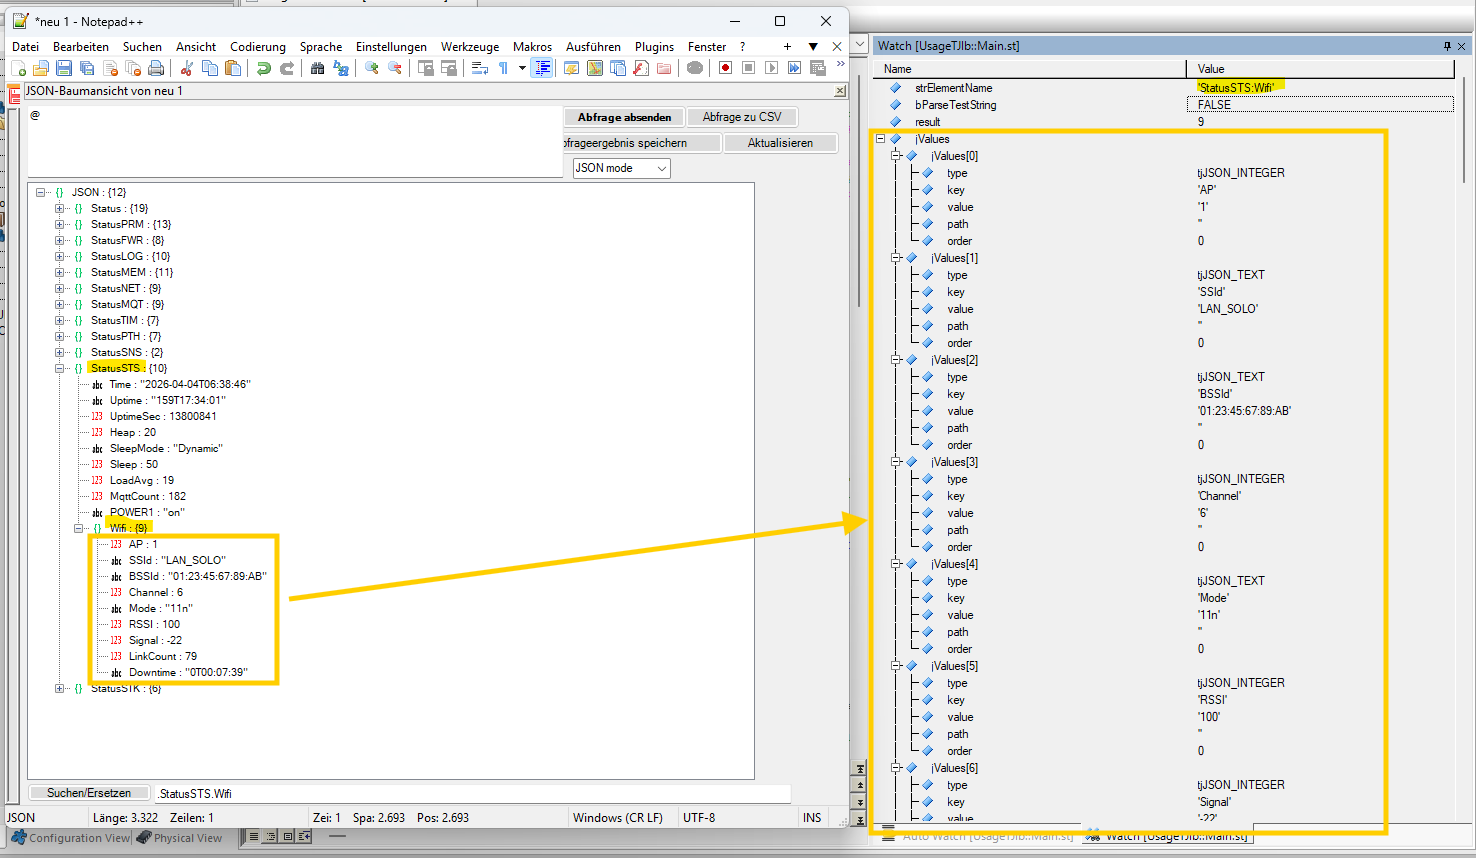
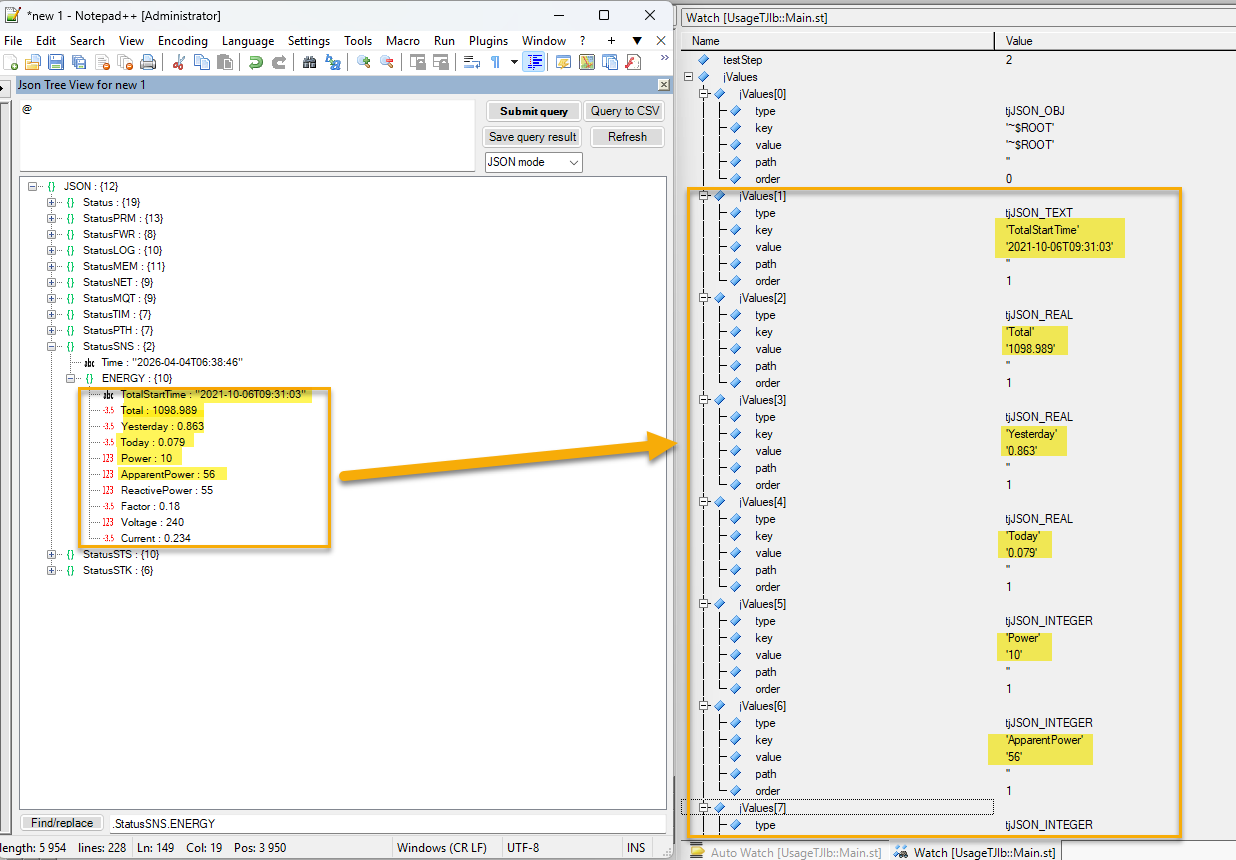
TinyJsonLb - some changes and fixes (see README.md)

Changed region(s): [[0.0, 0.0, 1.0, 1.0], [0.3382, 0.6364, 0.4612, 0.6667]]

diff --git a/AS412CodeSamples/Logical/JsonReader/TinyJsonLb/TinyJsonLb.c b/AS412CodeSamples/Logical/JsonReader/TinyJsonLb/TinyJsonLb.c
@@ -52,7 +52,7 @@ INT* jArrayIndex			-> array index of a json element (if element is array) - need
 char* jPath					-> pointer to a temporary variable building the path - needed because of using strrchr which manipulates the source memory
 BOOL* errDestIndex			-> not enough space in destination
 */
-static void dump(json_t const* json, jsonType_t parentType, UINT* jIndex, UINT jMaxElements, TinyJsonLibValues_typ* jOutput, UINT* jOrder, INT* jArrayIndex, char* jPath, BOOL* errDestIndex)
+static void dump(json_t const* json, jsonType_t parentType, UINT* jIndex, UINT jMaxElements, TinyJsonLibValues_typ* jOutput, UINT* jOrder, char* jPath, BOOL* errDestIndex)
 {
 	json_t const* child;
 	TinyJsonLibValues_typ* pjData = jOutput;
@@ -72,22 +72,13 @@ static void dump(json_t const* json, jsonType_t parentType, UINT* jIndex, UINT j
 			char const* name = json_getName( child );
 			if ( name )
 			{
-				// copy here to plc struct;
+				// copy name to plc struct
 				CheckAndCopyDestStr((UDINT)&pjData->key, sizeof pjData->key, (UDINT)name);
 			}
 			else
 			{
-				if (*jArrayIndex > -1)
-				{
-					char sArrayIndex[7] = {0};
-					brsitoa(*jArrayIndex, (UDINT)sArrayIndex);
-					char sArrayStr[10] = {0};
-					brsstrcpy((UDINT)sArrayStr, (UDINT)"~[");
-					brsstrcat((UDINT)sArrayStr,(UDINT)sArrayIndex);
-					brsstrcat((UDINT)sArrayStr, (UDINT)"]");
-					CheckAndCopyDestStr((UDINT)&pjData->key, sizeof pjData->key, (UDINT)sArrayStr);
-					(*jArrayIndex)++;
-				}
+				// assuming array element
+				CheckAndCopyDestStr((UDINT)&pjData->key, sizeof pjData->key, (UDINT)"~[..]");
 			}
 
 			if ( propertyType == JSON_OBJ || propertyType == JSON_ARRAY )
@@ -96,7 +87,6 @@ static void dump(json_t const* json, jsonType_t parentType, UINT* jIndex, UINT j
 				if ( propertyType == JSON_ARRAY)
 				{
 					CheckAndCopyDestStr((UDINT)&pjData->value, sizeof pjData->value, (UDINT)"~ARRAY");
-					*jArrayIndex = 0;
 				}
 				else
 				{
@@ -106,8 +96,16 @@ static void dump(json_t const* json, jsonType_t parentType, UINT* jIndex, UINT j
 				(*jIndex)++;
 				(*jOrder)++;
 				if (brsstrlen((UDINT)jPath) > 0) { brsstrcat((UDINT)jPath, (UDINT)":"); }
-				if (name) { brsstrcat((UDINT)jPath, (UDINT)name); }
-				dump( child, propertyType, jIndex, jMaxElements, jOutput, jOrder, jArrayIndex, jPath, errDestIndex );
+				// 2026-04-09 adding else to add array information into path
+				if (name) { brsstrcat((UDINT)jPath, (UDINT)name); } else {brsstrcat((UDINT)jPath, (UDINT)"~[..]");}
+				// call recursive
+				dump( child, propertyType, jIndex, jMaxElements, jOutput, jOrder, jPath, errDestIndex );
+				// returning here after recursive call
+				(*jOrder)--;
+				// manipulate path string
+				char* x = strrchr(jPath, ':');
+				if (x != NULL) *x = 0; else strcpy(jPath, "\0");
+				
 			}
 			else
 			{
@@ -126,12 +124,6 @@ static void dump(json_t const* json, jsonType_t parentType, UINT* jIndex, UINT j
 			*errDestIndex = 1;
 		}
 	}
-	
-	(*jOrder)--;
-	*jArrayIndex = -1;
-	// manipulate path string
-	char* x = strrchr(jPath, ':');
-	if (x != NULL) *x = 0;
 }
 
 DINT TinyJsonDump(UDINT pJsonString, UDINT pResultArray, UDINT resultArraySize, UDINT pElementName)
@@ -156,6 +148,13 @@ DINT TinyJsonDump(UDINT pJsonString, UDINT pResultArray, UDINT resultArraySize, 
 
 	// clean up destination array
 	brsmemset(pResultArray, 0, resultArraySize);
+	// set type in destionation array to JSON_NULL
+	TinyJsonLibValues_typ* pResArrayElm = (TinyJsonLibValues_typ*)pResultArray;	
+	for (int i = 0; i < jMaxElements; i++)
+	{
+		pResArrayElm->type = tjJSON_NULL;	
+		pResArrayElm++;
+	}
 
 	// TODO: can this be allocated?
 	static json_t mem[tinyjson_T_MEM_SIZE];
@@ -170,7 +169,6 @@ DINT TinyJsonDump(UDINT pJsonString, UDINT pResultArray, UDINT resultArraySize, 
 		
 		UINT jElementIndex = 0;
 		UINT jElementOrder = 0;
-		INT jElementArrayIndex = -1;
 		BOOL errDestIndex = 0;
 		// TODO: can this be allocated?
 		static char pathStr[tinyjson_PATH_BUFFER_SIZE];
@@ -209,8 +207,17 @@ DINT TinyJsonDump(UDINT pJsonString, UDINT pResultArray, UDINT resultArraySize, 
 			jsonType_t type = json_getType( json );
 			if ( type == JSON_OBJ || type == JSON_ARRAY )
 			{
+				// build root element
+				TinyJsonLibValues_typ* entry0 = (TinyJsonLibValues_typ*) pResultArray;
+				entry0->type = type;
+				// copy here to plc struct;
+				CheckAndCopyDestStr((UDINT)&entry0->key, sizeof entry0->key, (UDINT)"~$ROOT");
+				// copy here to plc struct;
+				CheckAndCopyDestStr((UDINT)&entry0->value, sizeof entry0->value, (UDINT)"~$ROOT");
+				
+				jElementIndex++; jElementOrder++;
 				// read out all json (sub-)elements
-				dump(json, JSON_NULL, &jElementIndex, jMaxElements, (TinyJsonLibValues_typ*)pResultArray, &jElementOrder, &jElementArrayIndex, pathStr, &errDestIndex);
+				dump(json, type, &jElementIndex, jMaxElements, (TinyJsonLibValues_typ*)pResultArray, &jElementOrder, pathStr, &errDestIndex);
 				if (!errDestIndex)
 				{
 					result = jElementIndex;

diff --git a/AS412CodeSamples/Logical/JsonReader/README.md b/AS412CodeSamples/Logical/JsonReader/README.md
@@ -14,11 +14,29 @@ So I decided to write my own function to deserialize the JSON responses (based o
 * the AS library "TinyJsonLb" exporting the function "TinyJsonDump()", which deserializes a JSON string
 * the AS task "UsageTJlb", which just contains some basic test calls
 
-# How to use
-* import the library "TinyJsonLn"
-* declare an array of structure of type "TinyJsonLibValues_typ" (which is defined by "TinyJsonLb") as result memory
-* call the function
-> TinyJsonDump( < address of string containing the JSON data > , < address of result array > , < sizeof result array > , < optional: path of JSON sub-element > );
+# Version history
+
+V1.00.2
+* introduced "$ROOT" object, when root node is of complex type
+  * if existing (root node != simple element), then always in result array at index [0])
+  * helpful if you need to know the root object type (tjJSON_ARRAY or tjJSON_OBJECT)
+* FIX: pagefault caused by NULL pointer
+* FIX: right handling of JSON structures like "array of objects" and similar
+* CHANGE: removed JSON array index number (as it's not working under all conditions, I'm sorry)
+* CHANGE: all internal generated entries in the result array, which are not directly derived from the JSON input data, are starting with "~"
+  * ~$ROOT (entered in "key" and/or "value" element = token is the root node)
+  * ~[..] (entered in "key" element = token is an array element)
+  * ~ARRAY (entered in "value" element = token is start of an array) 
+  * ~OBJECT (entered in "value" element = token is start of an object)
+
+V1.00.0
+* initial release
+
+# Known limitations
+* path information and / or key cannot resolve array index 
+* direct reading of sub-elements of type or containing "array element" using "< optional: path of JSON sub-element >" parameter is not possible
+* maximum size of JSON input string is 8192 byte (to adapt, change "tinyjson_DATA_BUFFER_SIZE" value and recompile)
+* maximum number of tokens in JSON is 256 (to adapt, change "tinyjson_T_MEM_SIZE" value and recompile)
 
 ## Example 1 - read complete JSON object
 ```
@@ -38,6 +56,12 @@ result := TinyJsonDump(ADR(sTestString), ADR(jValues), SIZEOF(jValues), 0);
 
 ![./UsageTJlb/SampleScreenshotTinyJsonLb.png](UsageTJlb/SampleScreenshotTinyJsonLb.png)
 
+# How to use
+* import the library "TinyJsonLn"
+* declare an array of structure of type "TinyJsonLibValues_typ" (which is defined by "TinyJsonLb") as result memory
+* call the function
+> TinyJsonDump( < address of string containing the JSON data > , < address of result array > , < sizeof result array > , < optional: path of JSON sub-element > );
+
 ## Example 2: read sub-element from JSON object
 ```
 VAR
@@ -51,13 +75,8 @@ END_VAR
 // result > 0 --> number of array elements containing data
 // result < 0 --> error, please see description in TinyJsonLb->Constants.var
 
-result := TinyJsonDump(ADR(sTestString), ADR(jValues), SIZEOF(jValues), ADR('StatusSTS:Wifi'));
+result := TinyJsonDump(ADR(sTestString), ADR(jValues), SIZEOF(jValues), ADR('StatusSNS:ENERGY'));
 ```
 ![./UsageTJlb/SampleScreenshotTinyJsonLb.png](UsageTJlb/SampleScreenshotTinyJsonLb2.png)
 
-# Known limitations
-* path and order information invalid, if JSON input string root is array of objects (... work in progress to solve that ...)
-* direct reading of sub-elements of type "array element" using "< optional: path of JSON sub-element >" parameter is not possible
-* maximum size of JSON input string is 8192 byte (to adapt, change "tinyjson_DATA_BUFFER_SIZE" value and recompile)
-* maximum number of tokens in JSON is 256 (to adapt, change "tinyjson_T_MEM_SIZE" value and recompile)
 